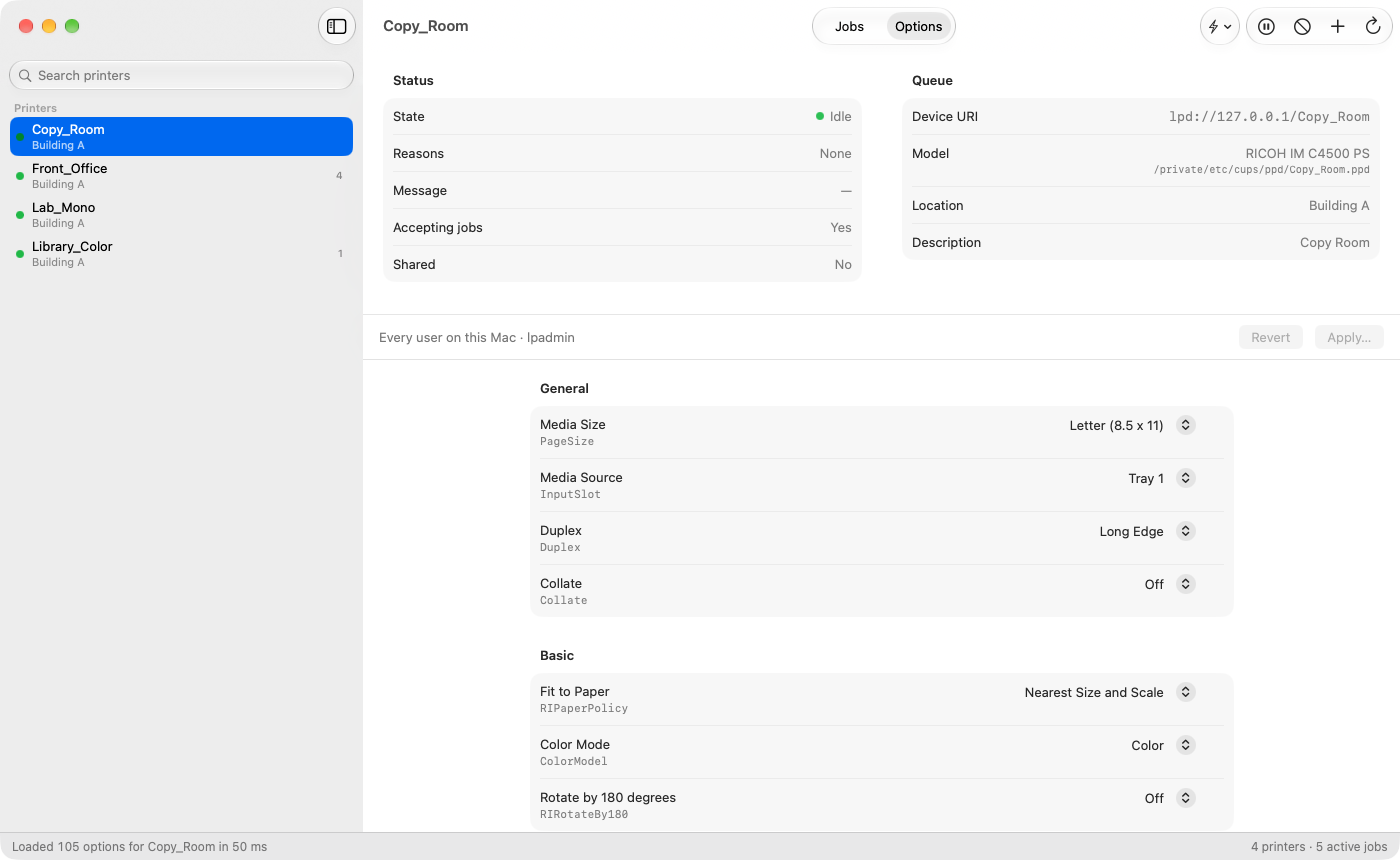
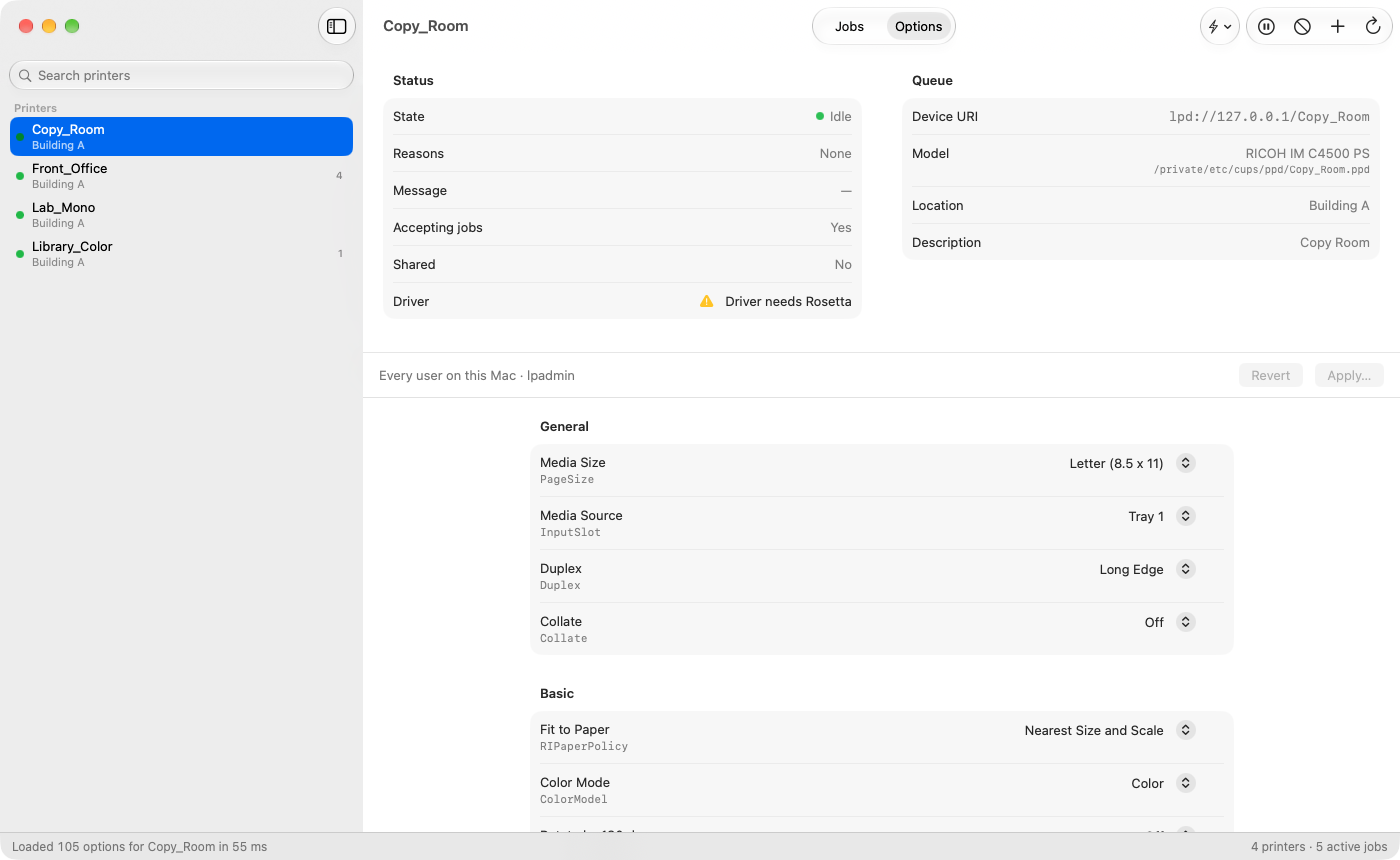
Options screenshot shows the Rosetta warning; --screenshots checks for it

diff --git a/README.md b/README.md
@@ -4,7 +4,7 @@
 *Jobs: hold, release, move or cancel jobs on any queue.*
 
 ![CUPS Admin showing a Ricoh queue's options](docs/screenshots/app-options.png)
-*Options: the queue's driver settings as a form, applied with `lpadmin` and read back.*
+*Options: the queue's driver settings as a form, applied with `lpadmin` and read back. The header warns when the driver needs Rosetta.*
 
 **CUPS Admin** is a native macOS app that puts back the CUPS web interface (`http://localhost:631`) Apple removed in macOS 27 — `cupsd`, `lpadmin` and IPP Everywhere queues all still work, only the browser admin page is gone. The sidebar lists every queue with its state and active jobs; select one to see its status, hold, release, move or cancel its jobs, and change its default options the way the old "Set Default Options" page did, including per-driver settings like Ricoh user codes. Common changes (color or black & white, duplex, Letter paper, a user code, the default printer) are one-click Quick Actions, and every change is read back from cupsd so nothing fails silently. It ships with `cupsadmin`, a command-line tool for scripts, Mosyle/Jamf/Munki commands and quick checks. No third-party dependencies; builds with the Xcode Command Line Tools alone.
 
